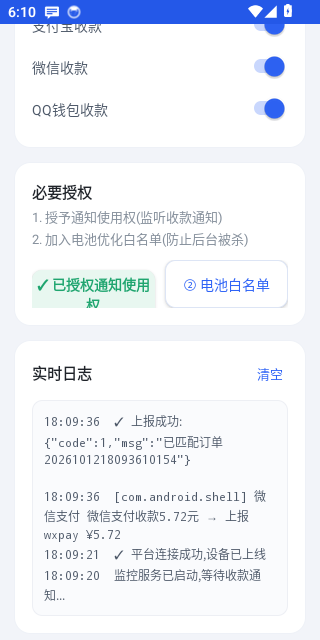
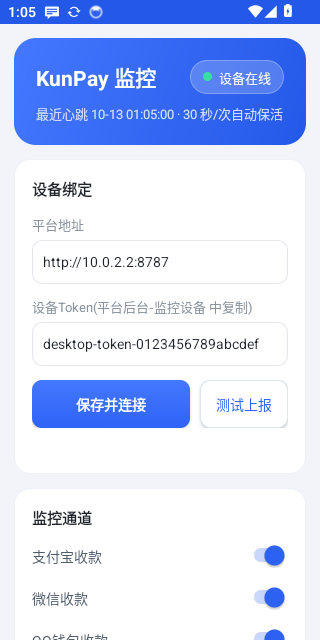
docs: 更新安卓APP截图(模拟器验证通过)

diff --git a/README.md b/README.md
@@ -11,6 +11,16 @@
 
 > ⚠ **免责声明**:本项目仅供学习研究。支付业务受严格监管,请勿用于违法违规场景,正式商用请自行评估合规风险并取得相关资质。详见 [LICENSE](LICENSE) 附加条款。
 
+## ⬇ 快速下载
+
+| 下载 | 说明 |
+|---|---|
+| [**📱 安卓监控APP (APK)**](https://github.com/kungec/kunpay/releases/download/v1.0.0/KunPayMonitor.apk) | 自动监听微信/支付宝/QQ收款通知,安装即用 |
+| [**💻 Windows 监控助手**](https://github.com/kungec/kunpay/releases/download/v1.0.0/KunPayMonitor_win64.zip) | 心跳保活 + 手动上报控制台 |
+| **🖥 平台主程序** | [Linux](https://github.com/kungec/kunpay/releases/download/v1.0.0/kunpay_linux_amd64.tar.gz) · [Windows](https://github.com/kungec/kunpay/releases/download/v1.0.0/kunpay_windows_amd64.zip) · [macOS](https://github.com/kungec/kunpay/releases/download/v1.0.0/kunpay_darwin_arm64.tar.gz) |
+
+> 更多版本与源码见 [Releases](https://github.com/kungec/kunpay/releases) 页面。
+
 ## 云端挂机
 
 监控不依赖家里开机:把安卓监控APP跑在**云手机**上实现 7×24 自动监听,Windows/macOS 监控助手注册为系统服务跑在云服务器做心跳保活;平台内置**主备设备自动接管**——主设备离线 5 分钟,备份设备自动接管匹配,双保险不掉单。
